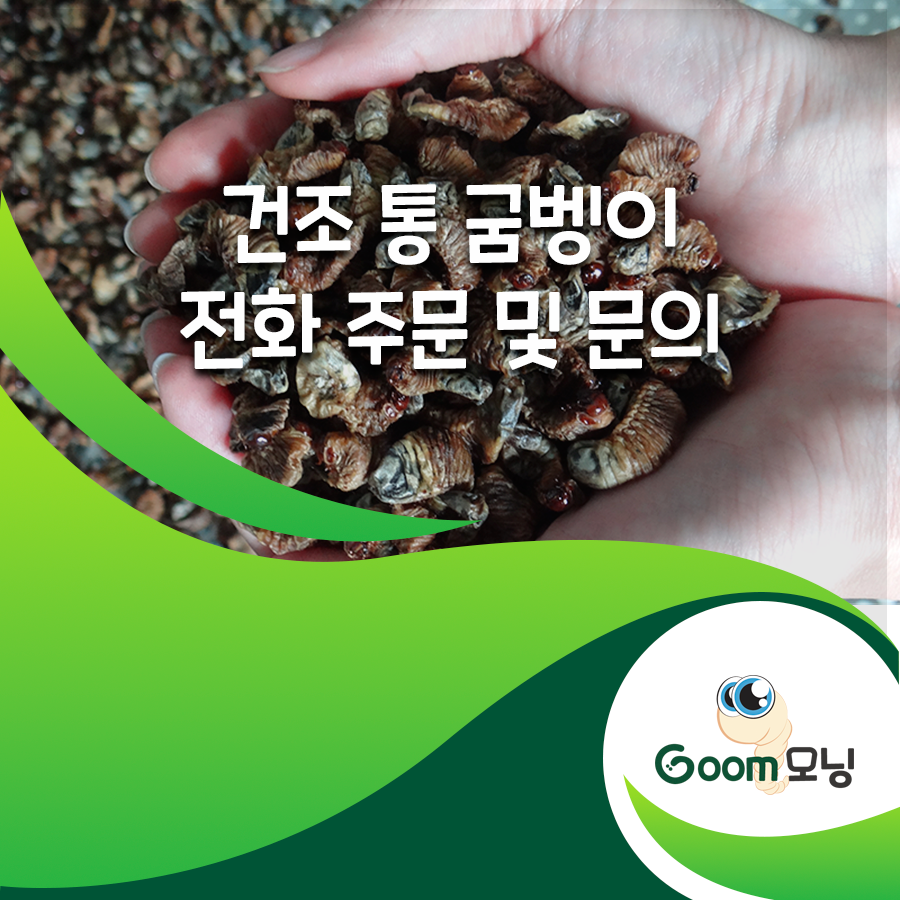
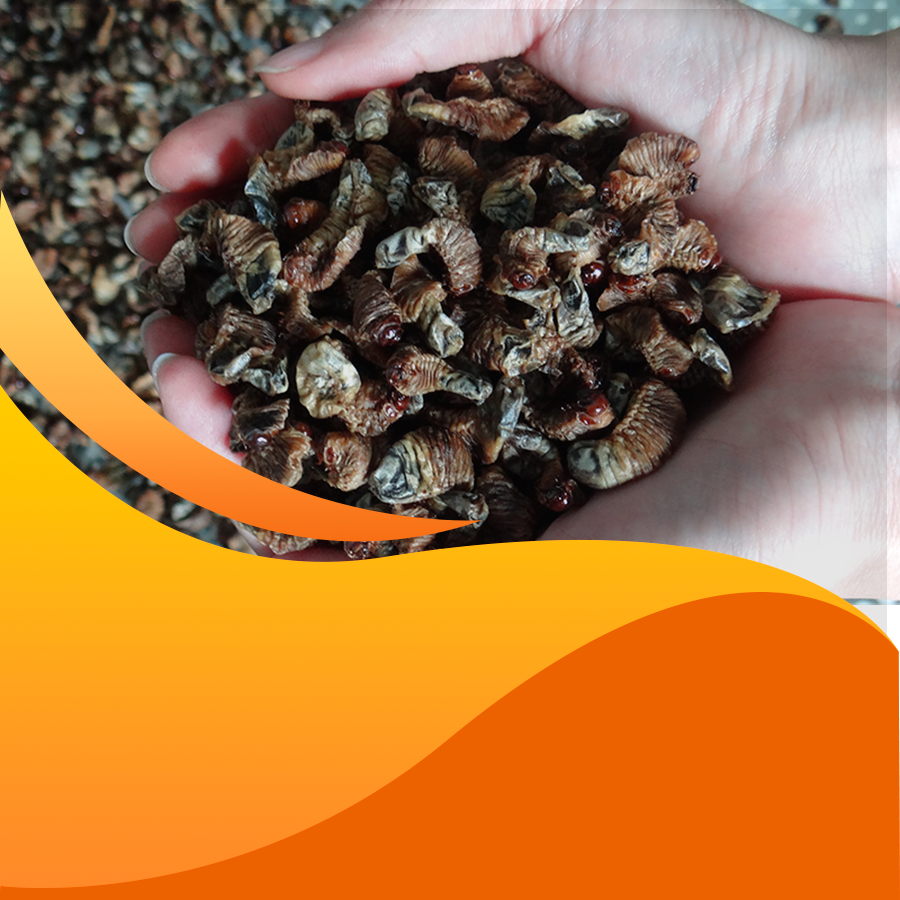
main page contents 완료

diff --git a/theme/basic/index.php b/theme/basic/index.php
@@ -33,7 +33,7 @@ include_once(G5_THEME_PATH.'/head.php');
 .gTab2{position:relative;}
 .gTab2>p{position:absolute;top:100px;left:100px;font-size:18px;color:#fff;line-height:2.2;}
 .gTabss{font-size:14px;letter-spacing:-4px;}
-.gTabs{background:rgba(234,84,20,0.8);color:#323333;font-size:20px;padding:2px 25px;border-radius:5px;font-weight:bold;}
+.gTabs{background:rgba(234,84,20);color:#323333;font-size:20px;padding:2px 25px;border-radius:5px;font-weight:bold;}
 .gTab2_img{position:absolute;top:260px;left:640px;width:80px;}
 
 .gTab3{position:relative;}
@@ -45,18 +45,26 @@ include_once(G5_THEME_PATH.'/head.php');
 .gTab4>p{position:absolute;top:80px;left:100px;font-size:18px;color:#fff;line-height:1.8;}
 
 /* 컨텐츠-영상,네이버쇼핑바로가기,직접주문 */
-.gcontents{width:1200px;height:350px;margin:50px 0 0 -120px;}
-.gc_video{width:500px;height:350px;background:#323333;float:left;border-top-right-radius:10px;border-top-left-radius:10px;}
-.gc_video>p{width:50%;font-size:16px;color:#fff;text-align:center;padding:3px 0;border:1px solid #fff;margin:20px auto;border-radius:20px;}
-#main_v{width:500px;}
-.gc_naver{width:345px;height:350px;float:left;margin-left:10px;}
-.gc_naver>a>img{width:350px;}
-.gc_buy{width:345px;height:350px;background:url("<?php echo G5_URL ?>/images/buy.png" );background-size:350px;float:left;display:block;position:relative}
-.gc_buy>p{font-size:18px;color:#fff;position:absolute;top:230px;left:20px;line-height:1.8;letter-spacing:-2px;}
+.gcontents{width:1200px;height:340px;margin:50px 0 0 -130px;}
+.gc_video{width:605px;height:340px;background:#323333;float:left;position:relative;}
+.gc_video>p{position:absolute;top:10px;left:10px;z-index:9999;font-size:40px;color:#fff;font-weight:bolder;text-shadow: 1px 2px #323333;}
+#main_v{height:340px;}
 
-/* 하단 갤러리 */
-.ggallery{width:1200px;background:#323333;margin:10px 0 0 -120px;position:relative;}
+.gc_naver{width:235px;height:340px;float:left;margin:0 10px;border:1px solid #ddd;position:relative;}
+.gc_naver_h{font-size:25px;color:#323333;position:absolute;top:30px;left:25px;
+                line-height:1.5;letter-spacing:-2px;font-weight:bold;}
+.gc_naver>a>img{width:160px;margin:170px 0 10px 30px;}
+
+.gc_buy{width:340px;height:340px;
+            background:url("<?php echo G5_URL ?>/images/buy.png" );background-size:340px;float:left;display:block;position:relative;position:relative;}
+.gc_buy_h{position:absolute;top:10px;left:10px;z-index:9999;font-size:30px;color:#fff;font-weight:bolder;text-shadow: 1px 2px #323333;}
+.gc_buy_s{font-size:25px;color:#fff;position:absolute;top:90px;left:60px;line-height:1.5;letter-spacing:-2px;text-shadow: 1px 2px #323333;font-weight:bold;}
+.gc_buy_t{font-size:18px;color:#fff;position:absolute;top:230px;left:35px;line-height:1.5;letter-spacing:-1px;}
+
+/* 하단-갤러리 슬라이드*/
+.ggallery{width:1200px;background:#323333;margin:10px 0 0 -130px;position:relative;}
 .ggallery>p{position:absolute;top:10px;left:10px;z-index:9999;font-size:50px;color:#fff;font-weight:bolder;text-shadow: 1px 2px #323333;}
+
 </style>
 
 <script>
@@ -95,7 +103,7 @@ include_once(G5_THEME_PATH.'/head.php');
                 삼잎국화, 단삼을 비롯한 여러 산나물을 재배하고 있습니다<br>
                 <span>굼모닝 농장은 2018년 신축된 축사로, 위생관리에 힘쓰고 있습니다</span><br>
             <p>
-            <img src="<?php echo G5_URL ?>/images/link1.png" alt="굼모닝,굼벵이" class="gTab1_img">
+            <!-- <img src="<?php echo G5_URL ?>/images/link1.png" alt="굼모닝,굼벵이" class="gTab1_img"> -->
         </div>
         <div class="gTab2">
             <img src="<?php echo G5_URL ?>/images/tab2.png" alt="농장내부,굼벵이">
@@ -107,7 +115,7 @@ include_once(G5_THEME_PATH.'/head.php');
                 ● 굼벵이는 버섯배지를 먹고 자라며, 1령>2령>3령 단계로 성장합니다<br>
                 ● 성충은 바나나, 사과 등 과일을 먹고 자라며, 1개월 정도 생존합니다
             <p>
-            <img src="<?php echo G5_URL ?>/images/shortcut.png" alt="굼모닝,굼벵이" class="gTab2_img">
+            <!-- <img src="<?php echo G5_URL ?>/images/shortcut.png" alt="굼모닝,굼벵이" class="gTab2_img"> -->
         </div>
         <div class="gTab3">
             <img src="<?php echo G5_URL ?>/images/tab1.png" alt="제품사진">
@@ -153,17 +161,23 @@ include_once(G5_THEME_PATH.'/head.php');
 <h2 class="sound_only">contents</h2>
 <div class="gcontents">
     <div class="gc_video">
-            <p>Goom모닝 영상으로 보기</p>
+            <p>Play</p>
             <video id="main_v" src="<?php echo G5_URL ?>/images/main.mp4" controls=""></video>
     </div>
-    <div class="gc_naver"><a href="https://shopping.naver.com/home/p/index.nhn"><img src="<?php echo G5_URL ?>/images/naverclick.png"  alt="키보드"></a></div>
-     <div class="gc_buy">
-        <p>
-            [휴대전화] 010-5904-1603</br>
-            [사무실] 061-000-0000</br>
-            ※ 전화 주문 시 택배비 무료!
-        </p>
-     </div>   
+    <div class="gc_naver">
+        <a href="https://shopping.naver.com/home/p/index.nhn">
+        <p class="gc_naver_h">굼벵이 온라인 구매<br>바로가기 Click →</p>
+        <img src="<?php echo G5_URL ?>/images/link1.png" alt="제품사진"></a>
+    </div>
+    <div class="gc_buy">
+            <p class="gc_buy_h">Conact<p>
+            <p class="gc_buy_s">굼벵이 전화 구매·문의<p>
+            <p class="gc_buy_t">
+                [휴대전화] 010-5904-1603</br>
+                [사무실] 061-000-0000</br>
+                ※ 전화 주문 시 택배비 무료!
+            </p>
+    </div>  
 </div>
 
 <div class="ggallery">
